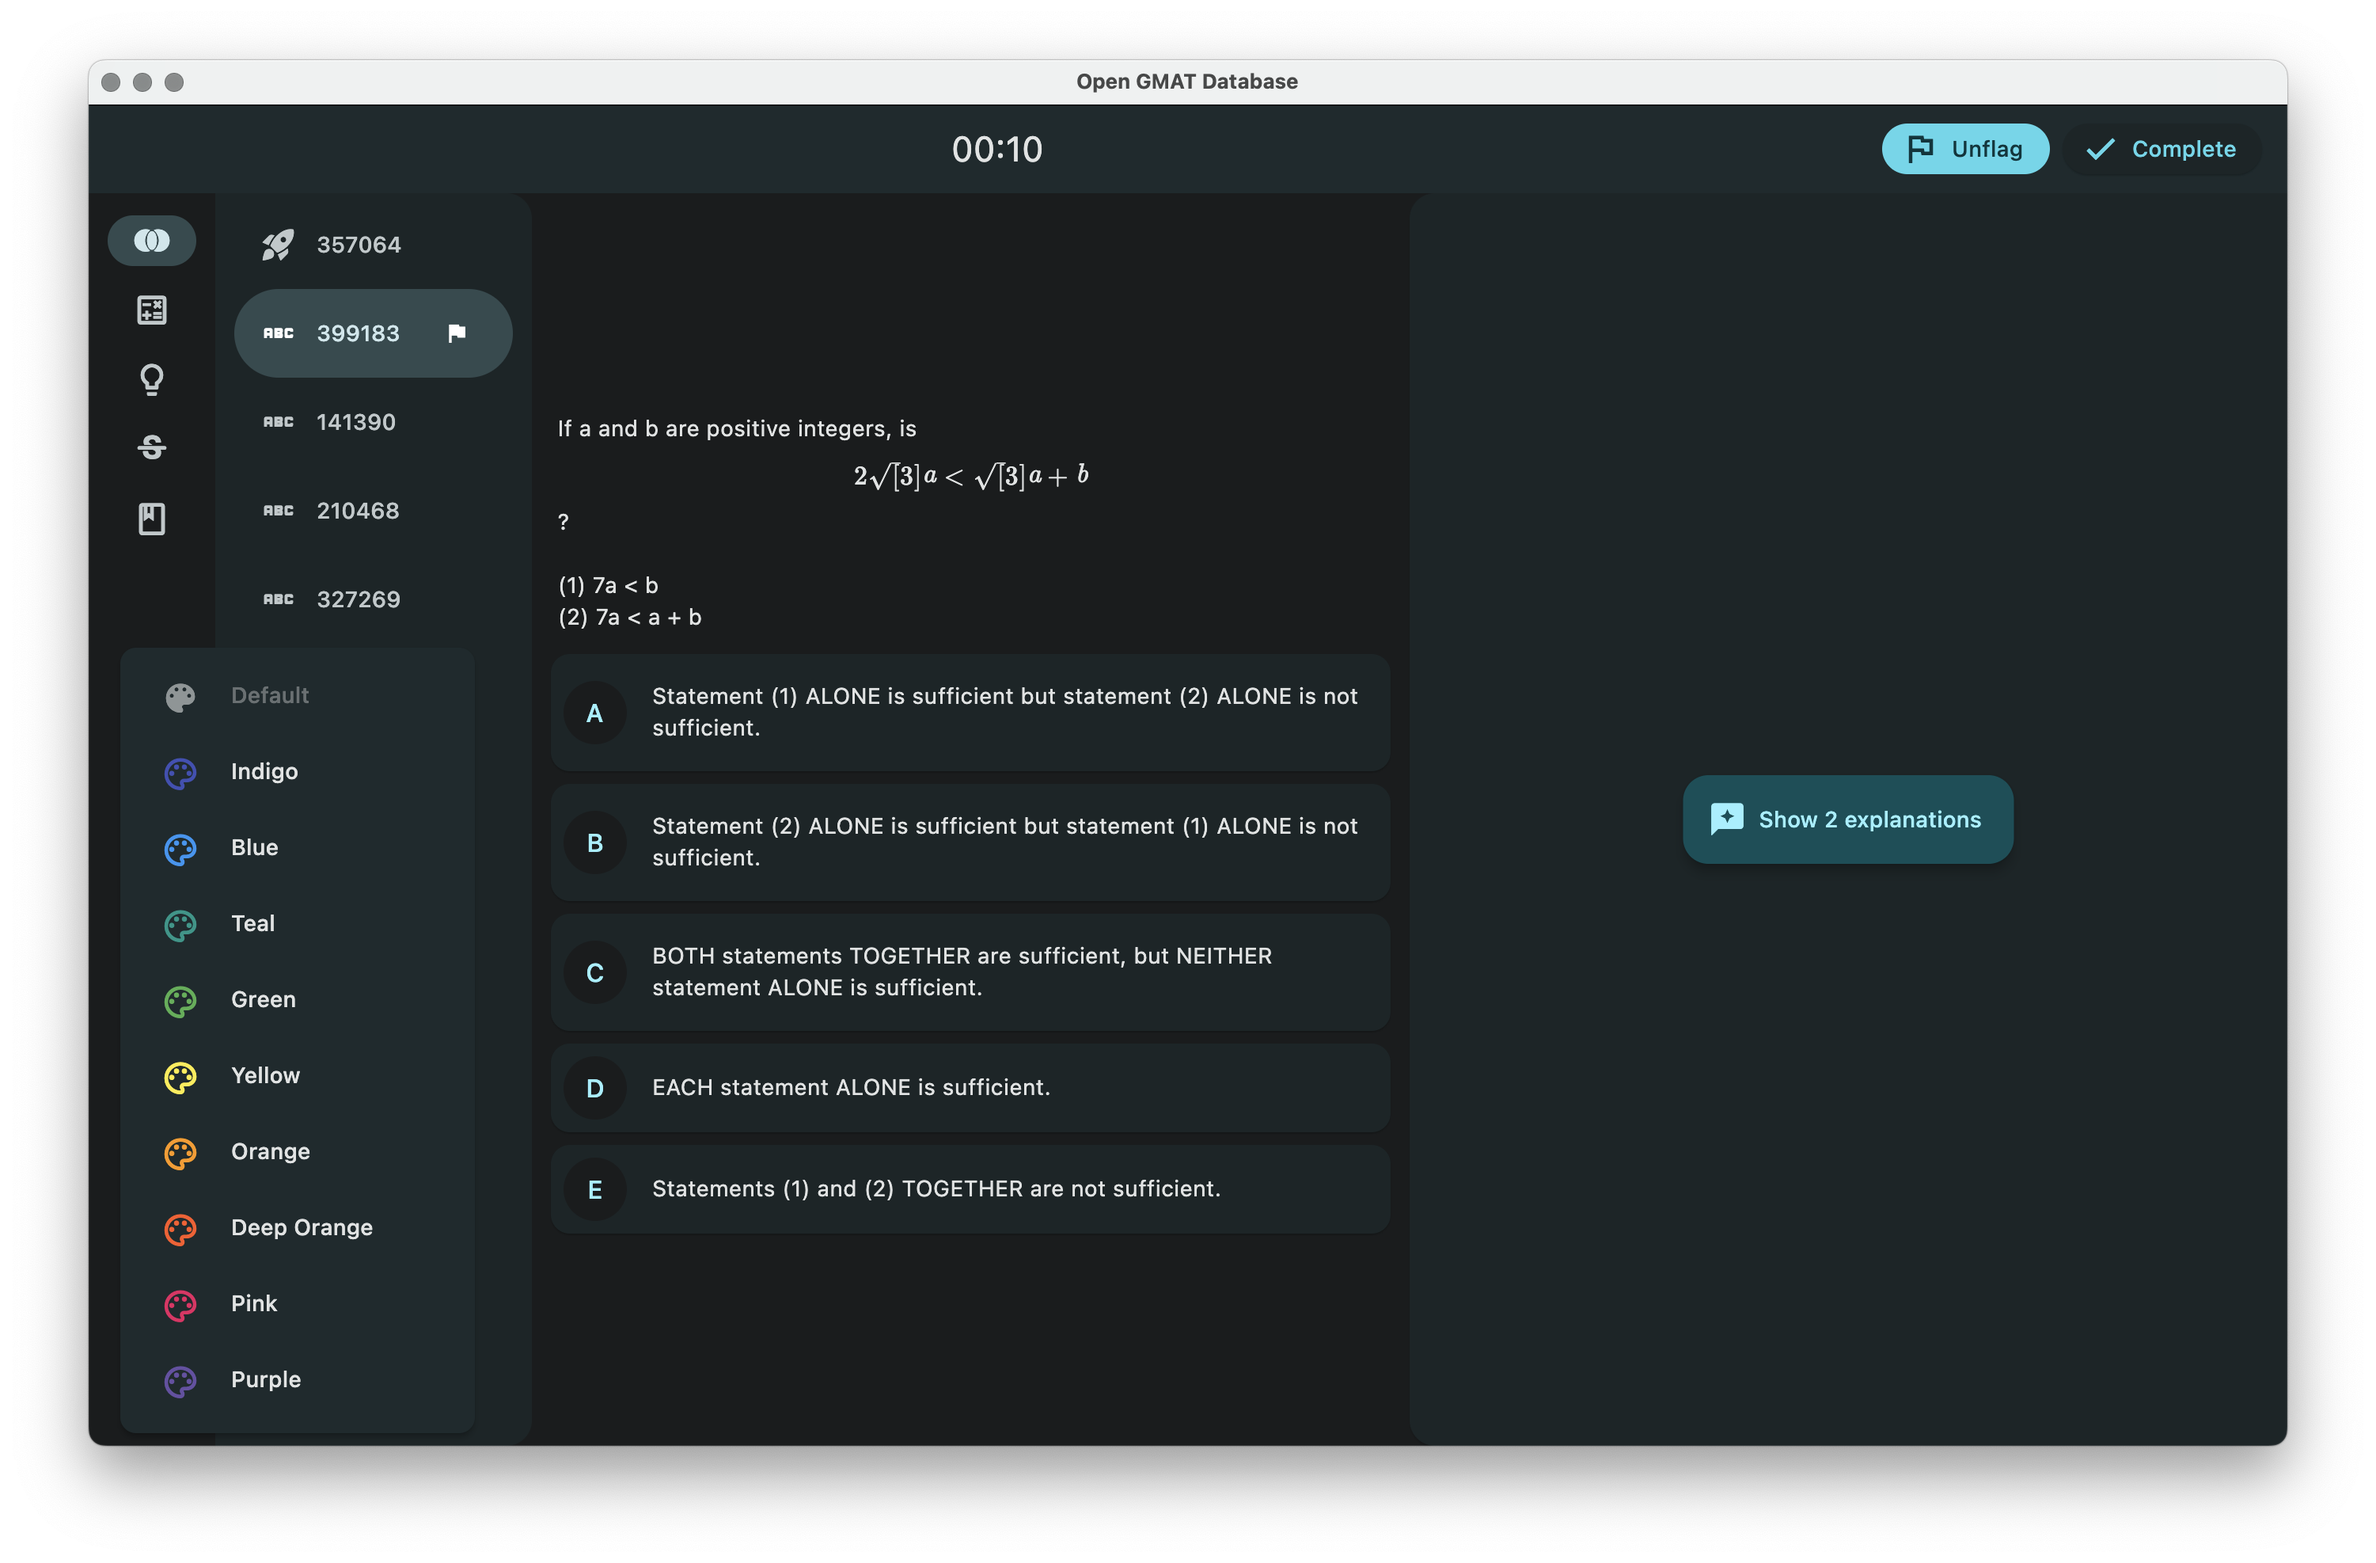
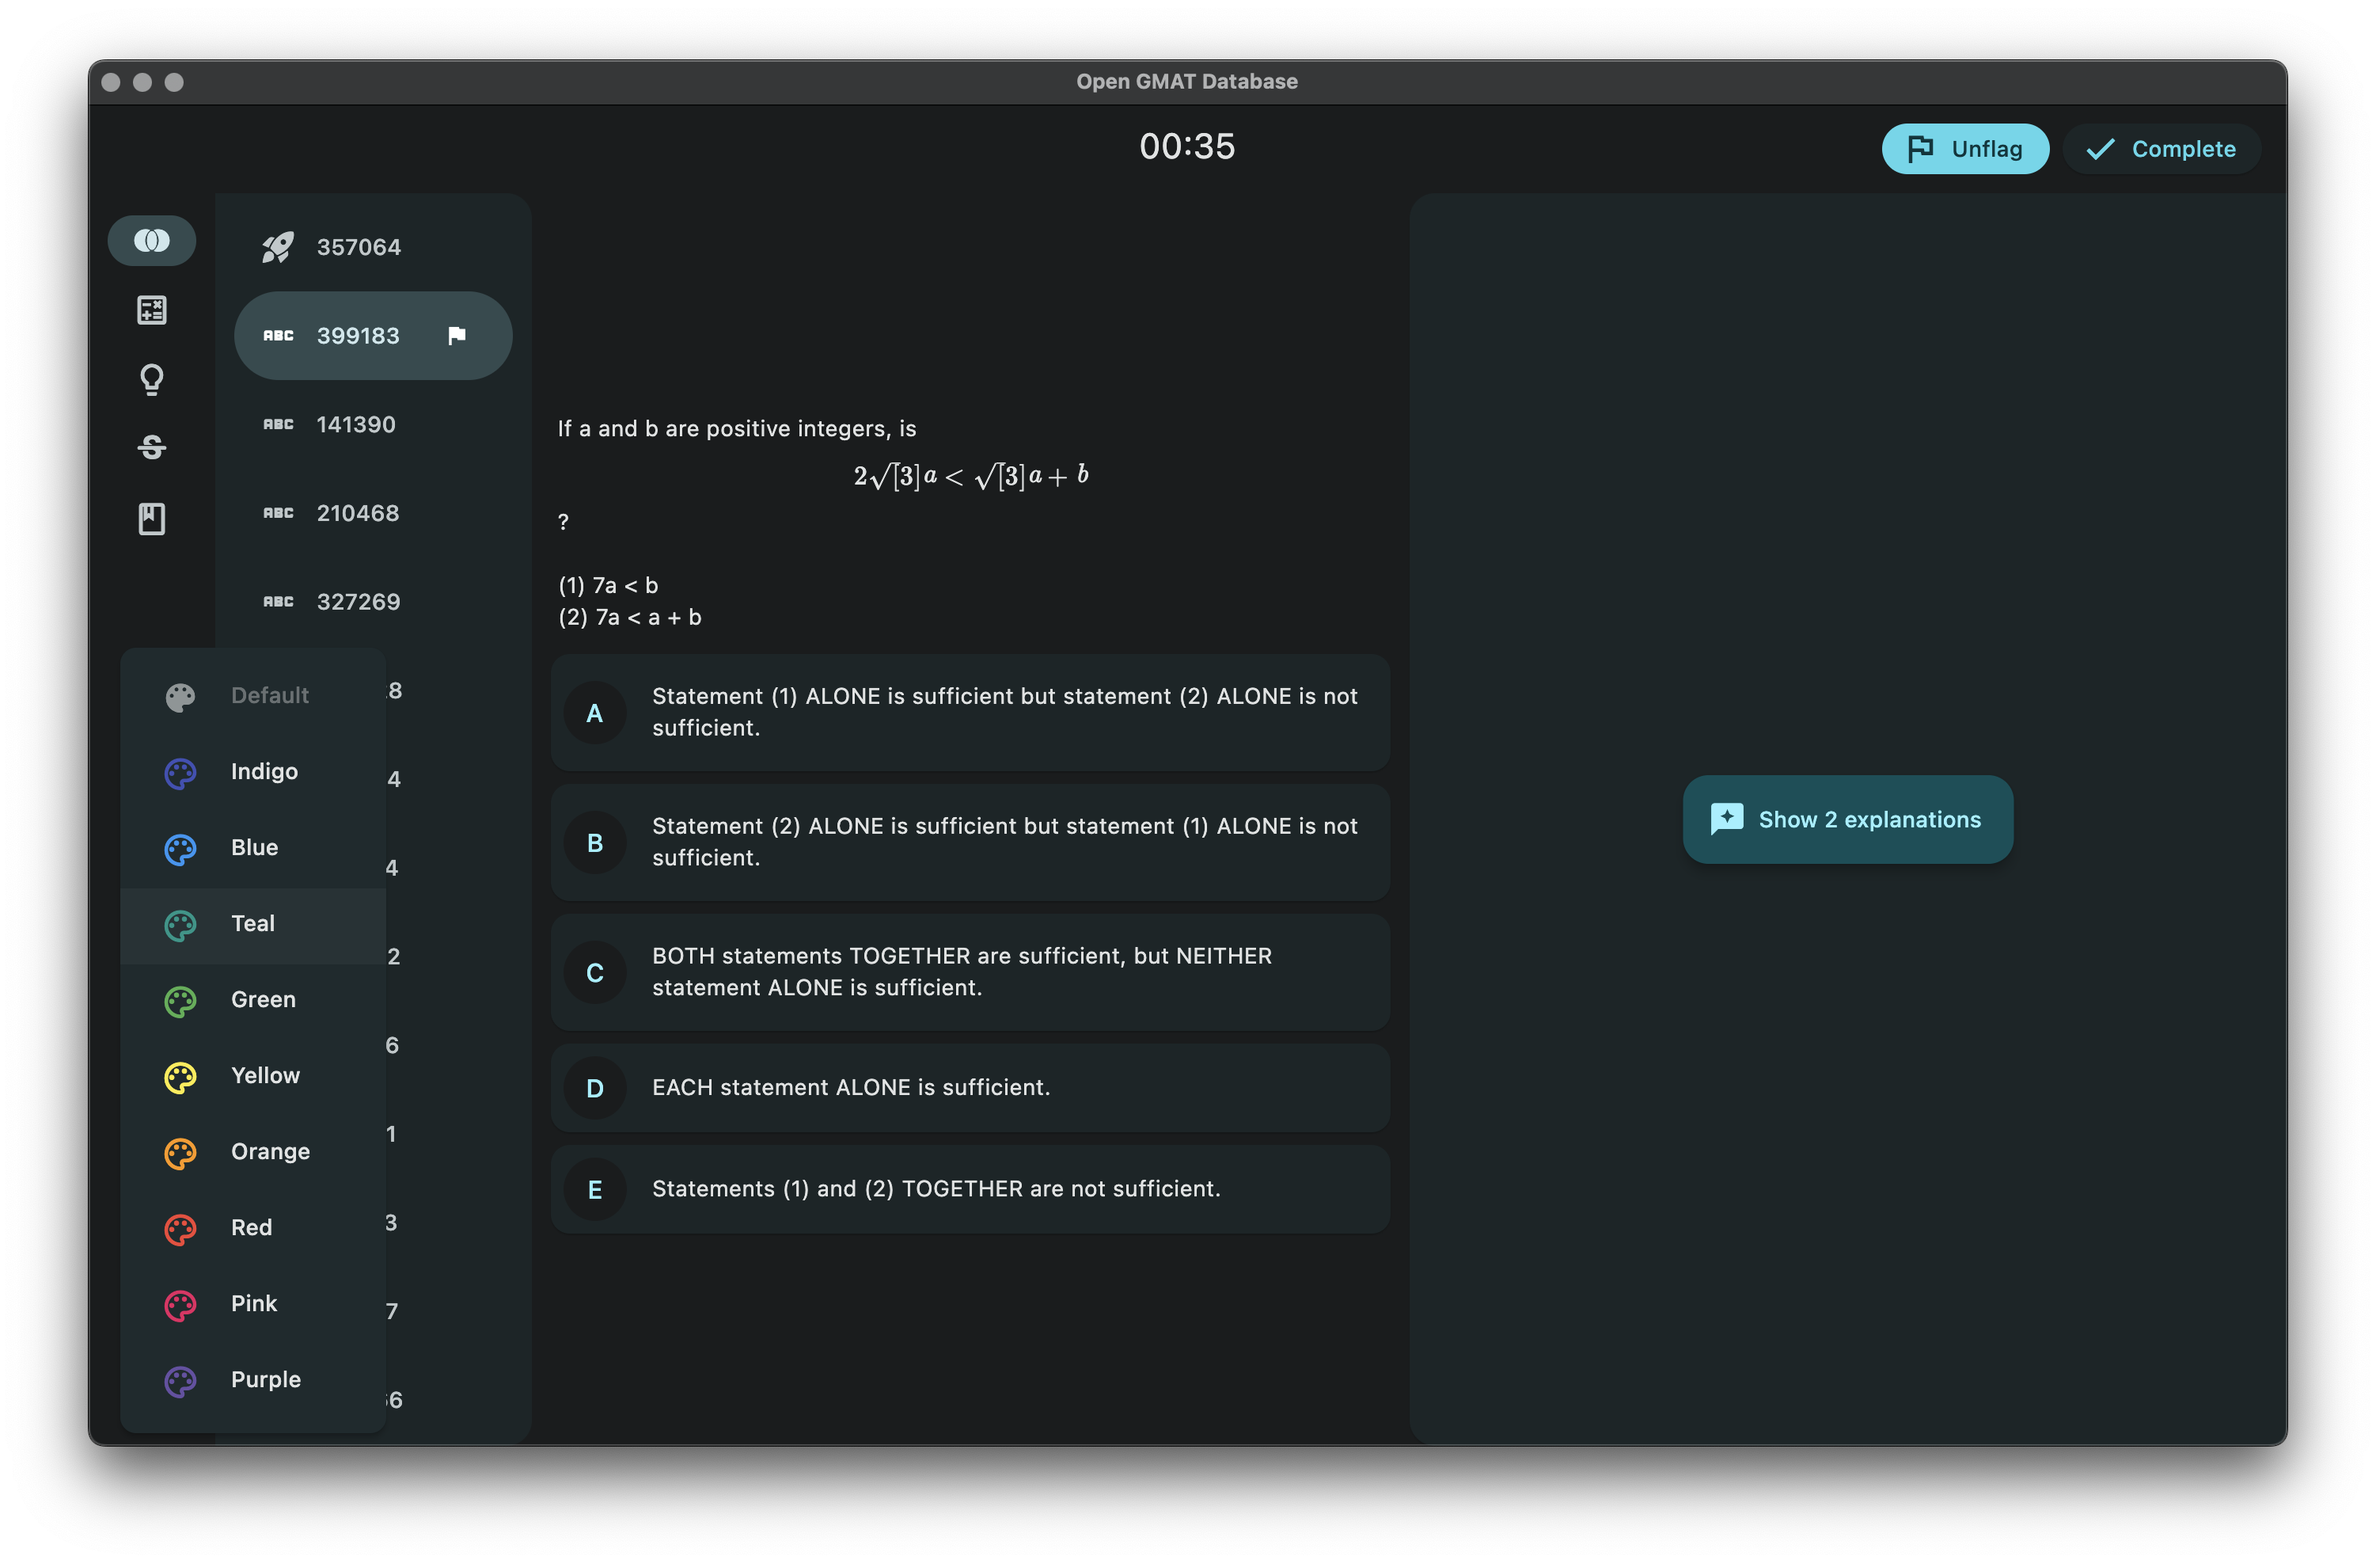
center timer

diff --git a/lib/layouts/home.dart b/lib/layouts/home.dart
@@ -113,23 +113,26 @@ class _HomeState extends State<Home> with SingleTickerProviderStateMixin {
     return AppBar(
       title: Consumer<DatabaseState>(
         builder: (context, value, child) => value.questionsByCategory.length > 0
-            ? Row(
+            ? Stack(
                 children: [
-                  Expanded(
-                    child: Center(
-                      child: CountupTimer(
-                          key: Key(value.questionsByCategory[
-                              value.selectedQuestionIndex])),
-                    ),
+                  Center(
+                    child: CountupTimer(
+                        key: Key(value
+                            .questionsByCategory[value.selectedQuestionIndex])),
                   ),
-                  FlagQuestion(
-                    questionId:
-                        value.questionsByCategory[value.selectedQuestionIndex],
-                  ),
-                  SizedBox(width: 8),
-                  MarkCompleted(
-                    questionId:
-                        value.questionsByCategory[value.selectedQuestionIndex],
+                  Row(
+                    mainAxisAlignment: MainAxisAlignment.end,
+                    children: [
+                      FlagQuestion(
+                        questionId: value
+                            .questionsByCategory[value.selectedQuestionIndex],
+                      ),
+                      SizedBox(width: 8),
+                      MarkCompleted(
+                        questionId: value
+                            .questionsByCategory[value.selectedQuestionIndex],
+                      )
+                    ],
                   )
                 ],
               )

diff --git a/README.md b/README.md
@@ -4,7 +4,8 @@ Open GMAT Database is a client for the [GMAT Database](https://github.com/nguyen
 
 ## Preview
 
-<img width="400" alt="Screen Shot 2022-08-12 at 12 00 28 PM" src="./docs/demo/latex.png"><img width="400" alt="Screen Shot 2022-08-12 at 12 00 38 PM" src="./docs/demo/reading.png">
+![Dark](./docs/demo/latex.png)
+![Light](./docs/demo/reading.png)
 
 ## Features
 
